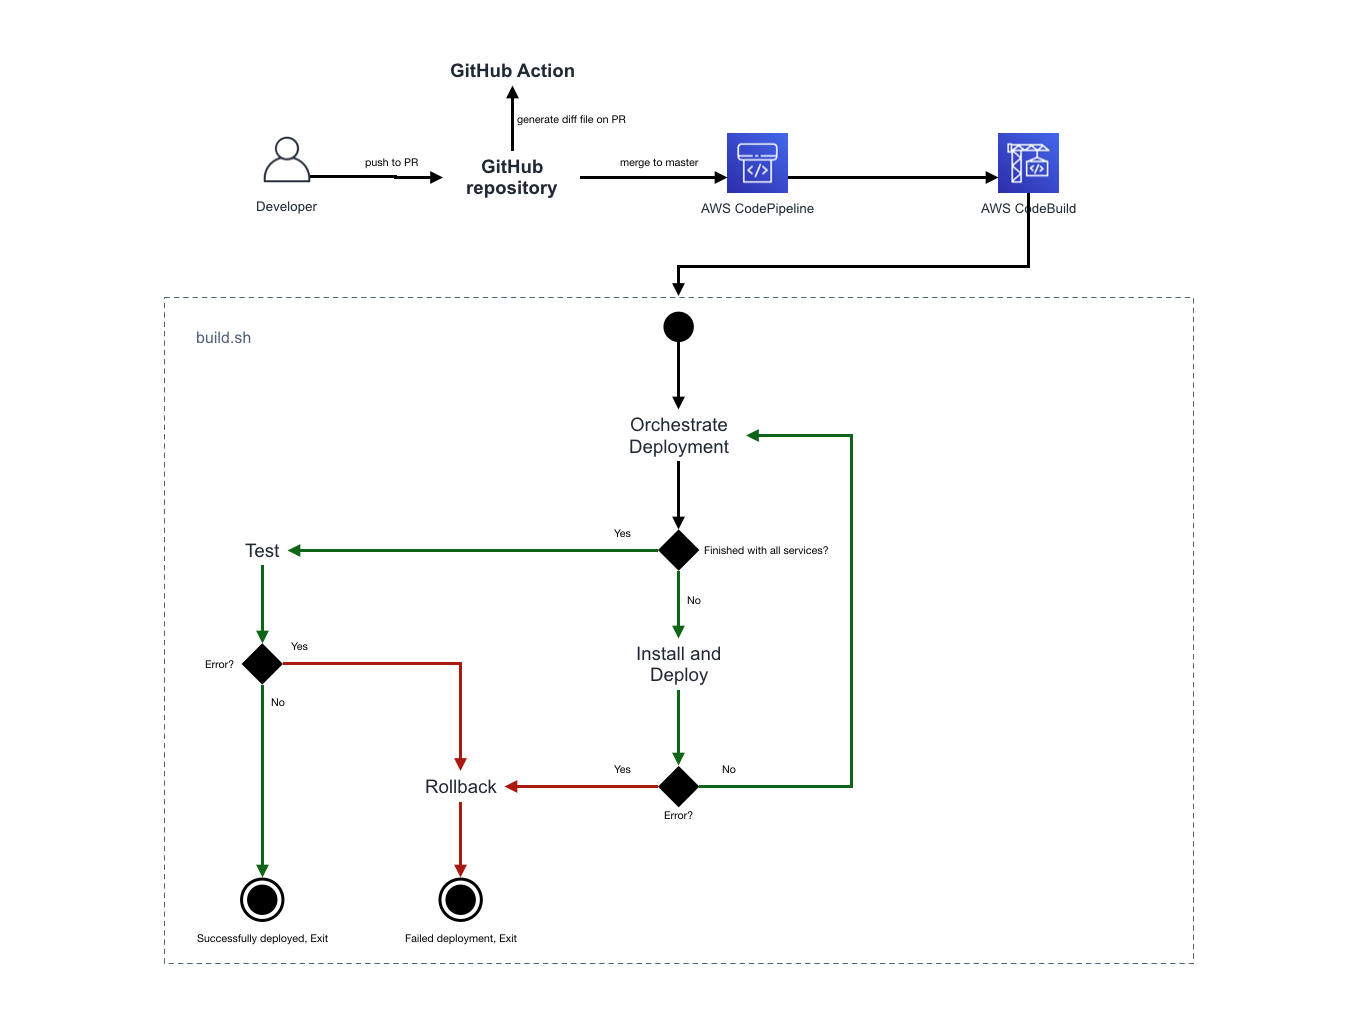
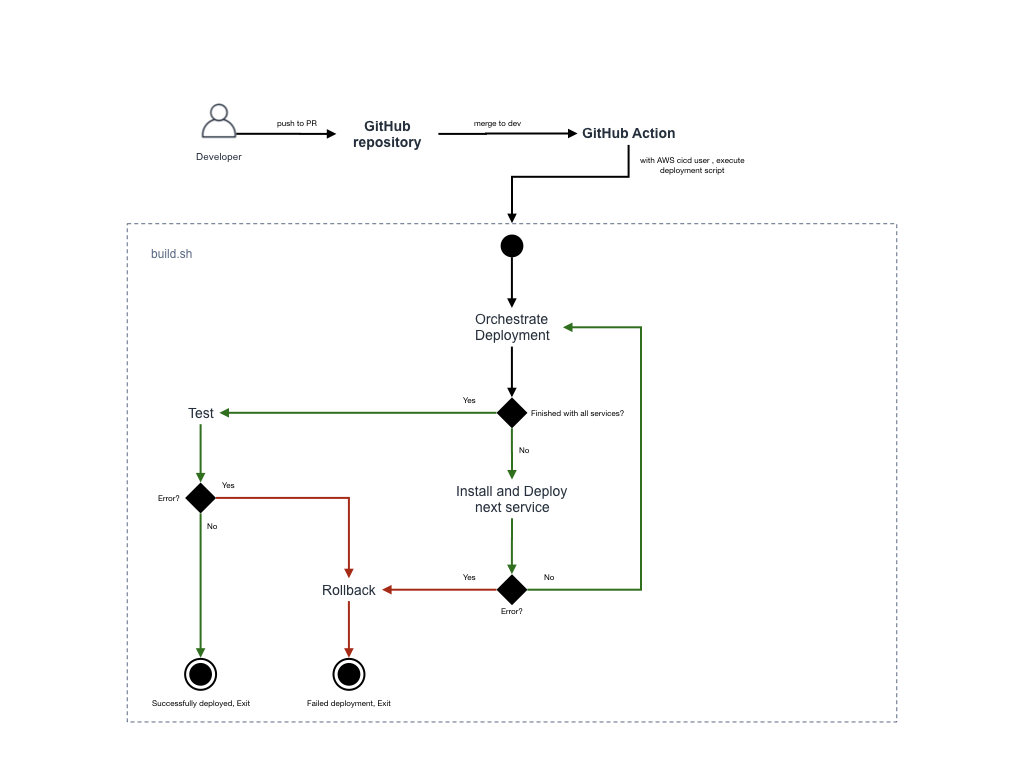
Update README and architechture diagrams

diff --git a/README.md b/README.md
@@ -1,7 +1,14 @@
 # Scaleable Microservices in Lambda with Terraform and the Serverless Framework
-This is a stripped down version of a scaleable microservice application using AWS Lambda functions as the base. It is provided here as an exmaple of how we structured the project. The project infrastructure is shown below. This infrastructure supported a grocery list application that allowed users to browse and search promotions from 15 retailers across the Netherlands. Users were able to add products from multiple retailers to a list, receive notifications when favourite products are on offer and share lists in a near realtime fashion with family members. It's hosted in AWS and uses mainly Lambda, API Gateway, Cognito, DynamoDB & CloudWatch. This repo provides only the Serverless Functions/API Endpoints for the App Project and the rest of the infrastructure is deployed using a separate terraform project.
+This is a stripped down version of a scaleable microservice application using AWS Lambda functions as the base. It is provided here as an exmaple of how we structured the project. The project infrastructure is shown below. This infrastructure supported a grocery list application that allowed users to browse and search promotions from 15 retailers across the Netherlands. Users were able to add products from multiple retailers to an interactable list, receive notifications when favourite products are on offer and share lists in a near realtime fashion with family members. It's hosted in AWS and uses mainly Lambda, API Gateway, Cognito, DynamoDB, ElasticSearch, ECS Fargate & CloudWatch. This repo provides only the Serverless Functions/API Endpoints for the App Project and the rest of the infrastructure is deployed using a separate terraform project.
 
 The project was unfortunatley discontinued despite showing freat potential. There was still plent more left to do on the project, it had only just started to fly.
+
+# Architecture
+This repo only contains the lambda stack seen in the diagram. The rest is managed in terraform which is found in a separate more private repo also co-authored by me.
+
+<p>
+  <img src="docs/architechture.png" alt="Architecture" />
+</p>
 
 # Structure (Microservices + Mono-Repo)
 
@@ -35,7 +42,7 @@ We are using the `serverless-bundle` plugin that internally uses `Webpack` to on
 
 See the services [README.md](./services/) for more insights.
 
-## Data Store
+## Data Stores
 This application interacted with 4 main data stores (DynamoDB, ElasticSearch, Aurora Serverless & S3). We relied heavily on the AWS SDK to acheive this and became quite adept at using it. The DynamoDB table structures were carefully thought out to adapt the `mono-table` design, trying to achieve as much utility as we could out of a single table by utilising high-cardinality attributes, composite keys with composite attributes and overloading GSIs. Contact me for more information on how we structured the table.
 
 # Installation
@@ -63,13 +70,6 @@ In order to deploy single function:
 To invoke the function locally:
 
 `sls invoke local -f function-name --stage dev --aws-profile aws-profile`
-
-# Architecture
-This repo only contains the lambda stack seen in the diagram. The rest is managed in terraform which is found in a separate more private repo also co-authored by me.
-
-<p>
-  <img src="docs/architechture.png" alt="Architecture" />
-</p>
 
 # CI/CD
 

diff --git a/services/README.md b/services/README.md
@@ -15,4 +15,4 @@ The expected file structure is:
     ...               # Any other module specific libraries that may be developed
 ```
 
-The services connected with multiple AWS Services. I was also heavily involved in the creation and maintainance of the services. Mostly written in Node.js (with the exception of a few Python3 functinos) relying heavily on the AWS SDK to interact with the many services we integrated with (DynamoDB, ElasticSearch, Aurora Serverless, S3, SNS, SES & Cognito).
+The services connected with multiple AWS Services. I was also heavily involved in the creation and maintainance of the services. Mostly written in Node.js (with the exception of a few Python3 functions) relying heavily on the AWS SDK to interact with the many services we integrated with (DynamoDB, ElasticSearch, Aurora Serverless, S3, SNS, SES & Cognito).
